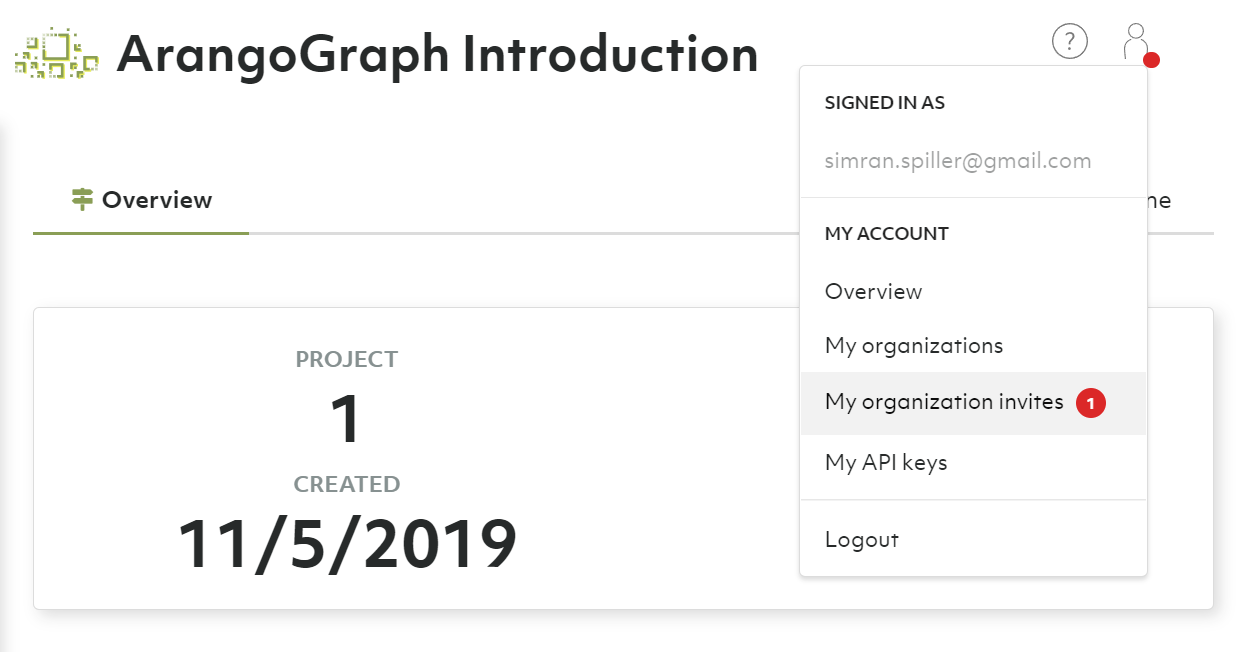
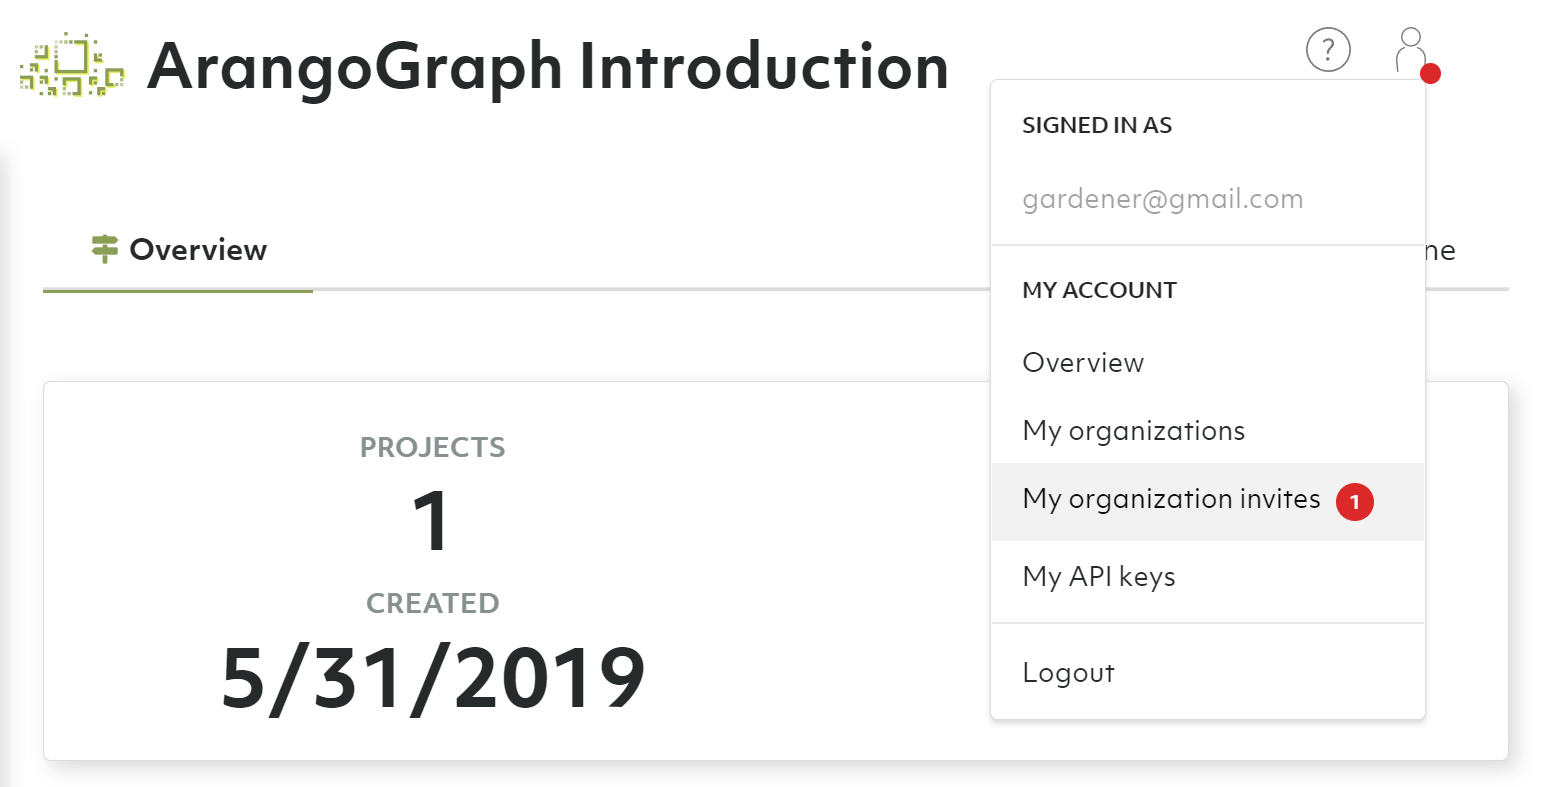
ArangoGraph rebranding - replace remaining images (#1229)
* replaced images

* updated path to new images

* Improve some screenshots and compress with Squoosh.app

* Update 3 Oasis screenshots with ArangoGraph

* Use new screenshots also in Manual

* update verify-email image

* update signup image

* update create-account screenshot

* Squooshed the new screenshots

diff --git a/3.10/quick-start-in-the-cloud.md b/3.10/quick-start-in-the-cloud.md
@@ -36,16 +36,16 @@ used for multiple accounts.
 2. Click the __Start Free__ button or click the __Sign Up__ link in the top
    right corner.
 
-   ![ArangoGraph Homepage](arangograph/images/oasis-homepage.png)
+   ![ArangoGraph Homepage](arangograph/images/arangograph-homepage.png)
 
 3. Review the terms & conditions and privacy policy and click __I accept__.
 4. Select the type of sign up you would like to use (GitHub, Google, or
    email address).
-     - For GitHub or Google please follow on-screen instructions.
+     - For GitHub, Google, and Microsoft please follow the on-screen instructions.
      - For the email address option, type your desired email address in the
        email field and type a strong password in the password field.
 
-     ![ArangoGraph Sign up](arangograph/images/oasis-signup.png){:style="max-height: 50vh"}
+     ![ArangoGraph Sign up](arangograph/images/arangograph-create-account.png){:style="max-height: 50vh"}
 
    Click the __Sign up__ button. You will receive a verification email. In that
    mail, click the __Verify my email address__ link or button.
@@ -70,7 +70,7 @@ used for multiple accounts.
    provider and region. Pick one, click __Create deployment__ and accept the
    terms and conditions.
 
-   ![ArangoGraph Dashboard](arangograph/images/oasis-dashboard.png)
+   ![ArangoGraph Dashboard](arangograph/images/arangograph-dashboard.png)
 
    You can also [create a deployment](arangograph/deployments.html#how-to-create-a-new-deployment)
    manually, if you want fine-grained configuration options.
@@ -83,7 +83,7 @@ used for multiple accounts.
    is changed from __Bootstrapping__ to __OK__ eventually and you also
    receive an email when it is ready.
 
-   ![ArangoGraph Deployment Ready Email](arangograph/images/oasis-deployment-ready-email.png){:style="max-height: 50vh"}
+   ![ArangoGraph Deployment Ready Email](arangograph/images/arangograph-deployment-ready-email.png){:style="max-height: 50vh"}
 
 3. Click the name or the **View** button of the deployment card (or the
    __Open deployment details__ link in the email) to view the deployment

diff --git a/3.11/quick-start-in-the-cloud.md b/3.11/quick-start-in-the-cloud.md
@@ -36,16 +36,16 @@ used for multiple accounts.
 2. Click the __Start Free__ button or click the __Sign Up__ link in the top
    right corner.
 
-   ![ArangoGraph Homepage](arangograph/images/oasis-homepage.png)
+   ![ArangoGraph Homepage](arangograph/images/arangograph-homepage.png)
 
 3. Review the terms & conditions and privacy policy and click __I accept__.
 4. Select the type of sign up you would like to use (GitHub, Google, or
    email address).
-     - For GitHub or Google please follow on-screen instructions.
+     - For GitHub, Google, and Microsoft please follow the on-screen instructions.
      - For the email address option, type your desired email address in the
        email field and type a strong password in the password field.
 
-     ![ArangoGraph Sign up](arangograph/images/oasis-signup.png){:style="max-height: 50vh"}
+     ![ArangoGraph Sign up](arangograph/images/arangograph-create-account.png){:style="max-height: 50vh"}
 
    Click the __Sign up__ button. You will receive a verification email. In that
    mail, click the __Verify my email address__ link or button.
@@ -70,7 +70,7 @@ used for multiple accounts.
    provider and region. Pick one, click __Create deployment__ and accept the
    terms and conditions.
 
-   ![ArangoGraph Dashboard](arangograph/images/oasis-dashboard.png)
+   ![ArangoGraph Dashboard](arangograph/images/arangograph-dashboard.png)
 
    You can also [create a deployment](arangograph/deployments.html#how-to-create-a-new-deployment)
    manually, if you want fine-grained configuration options.
@@ -83,7 +83,7 @@ used for multiple accounts.
    is changed from __Bootstrapping__ to __OK__ eventually and you also
    receive an email when it is ready.
 
-   ![ArangoGraph Deployment Ready Email](arangograph/images/oasis-deployment-ready-email.png){:style="max-height: 50vh"}
+   ![ArangoGraph Deployment Ready Email](arangograph/images/arangograph-deployment-ready-email.png){:style="max-height: 50vh"}
 
 3. Click the name or the **View** button of the deployment card (or the
    __Open deployment details__ link in the email) to view the deployment

diff --git a/arangograph/getting-started.md b/arangograph/getting-started.md
@@ -33,7 +33,7 @@ used for multiple accounts.
 2. Click the __Start Free__ button or click the __Sign Up__ link in the top
    right corner.
 
-   ![ArangoGraph Homepage](images/oasis-homepage.png)
+   ![ArangoGraph Homepage](images/arangograph-homepage.png)
 
 3. Review the terms & conditions and privacy policy and click __I accept__.
 4. Select the type of sign up you would like to use (GitHub, Google, or
@@ -42,7 +42,7 @@ used for multiple accounts.
      - For the email address option, type your desired email address in the
        email field and type a strong password in the password field.
 
-     ![ArangoGraph Sign up](images/oasis-signup.png){:style="max-height: 50vh"}
+     ![ArangoGraph Sign up](images/arangograph-signup.png){:style="max-height: 50vh"}
 
    Click the __Sign up__ button. You will receive a verification email. In that
    mail, click the __Verify my email address__ link or button.
@@ -67,7 +67,7 @@ used for multiple accounts.
    provider and region. Pick one, click __Create deployment__ and accept the
    terms and conditions.
 
-   ![ArangoGraph Dashboard](images/oasis-dashboard.png)
+   ![ArangoGraph Dashboard](images/arangograph-dashboard.png)
 
    You can also [create a deployment](deployments.html#how-to-create-a-new-deployment)
    manually if you want fine-grained configuration options.
@@ -80,7 +80,7 @@ used for multiple accounts.
    will change from __Bootstrapping__ to __OK__ eventually and you will also
    receive an email when it is ready.
 
-   ![ArangoGraph Deployment Ready Email](images/oasis-deployment-ready-email.png){:style="max-height: 50vh"}
+   ![ArangoGraph Deployment Ready Email](images/arangograph-deployment-ready-email.png){:style="max-height: 50vh"}
 
 3. Click the name or the _View_ button of the deployment card (or the
    __Open deployment details__ link in the email) to get to the deployment

diff --git a/arangograph/my-account.md b/arangograph/my-account.md
@@ -91,19 +91,19 @@ See [Users and Groups: How to add a new member to the organization](users.html#h
 
 1. Once invited, you will receive an email asking to join your
    ArangoGraph organization.
-   ![ArangoGraph Organization Invite Email](images/oasis-org-invite-email.png)
+   ![ArangoGraph Organization Invite Email](images/arangograph-org-invite-email.png)
 2. Click the __View my organization invite__ link in the email. You will be
    asked to log in or to create a new account.
 3. To sign up for a new account, click the __Start Free__ button or the
    __Sign up__ link in the header navigation.
-   ![ArangoGraph Homepage](images/oasis-homepage.png)
+   ![ArangoGraph Homepage](images/arangograph-homepage.png)
 4. After successfully signing up, you will receive a verification email.
 5. Click the __Verify my email address__ link in the email. It takes you back
    to the ArangoGraph Insights Platform site.
-   ![ArangoGraph Organization Invite Email Verify](images/oasis-org-invite-email-verify.png)
+   ![ArangoGraph Organization Invite Email Verify](images/arangograph-org-invite-email-verify.png)
 6. After successfully logging in, you can accept or reject the invite to
    join your organization.
-   ![ArangoGraph Organization Invite](images/oasis-org-invite.png)
+   ![ArangoGraph Organization Invite](images/arangograph-org-invite.png)
 7. After accepting the invite, you become a member of your organization and
    will be granted access to the organization and its related projects and
    deployments.

diff --git a/arangograph/organizations.md b/arangograph/organizations.md
@@ -25,7 +25,7 @@ member of one _Free-to-try_ tier organization at a time.
 3. The overview will open for the selected organization, showing the number of
    projects, the tier and when it was created.
 
-![ArangoGraph Organization Switcher](images/oasis-organization-switcher.png)
+![ArangoGraph Organization Switcher](images/arangograph-organization-switcher.png)
 
 ![ArangoGraph Organization Overview](images/arangograph-organization-overview.png)
 

diff --git a/arangograph/monitoring-metrics.md b/arangograph/monitoring-metrics.md
@@ -18,7 +18,7 @@ open the **Monitoring** tab.
 
 ![ArangoGraph Monitoring tab](images/arangograph-monitoring-tab.png)
 
-![ArangoGraph Connect Metrics Section](images/oasis-connect-metrics-section.png)
+![ArangoGraph Connect Metrics Section](images/arangograph-connect-metrics-section.png)
 
 ## Metrics tokens
 
